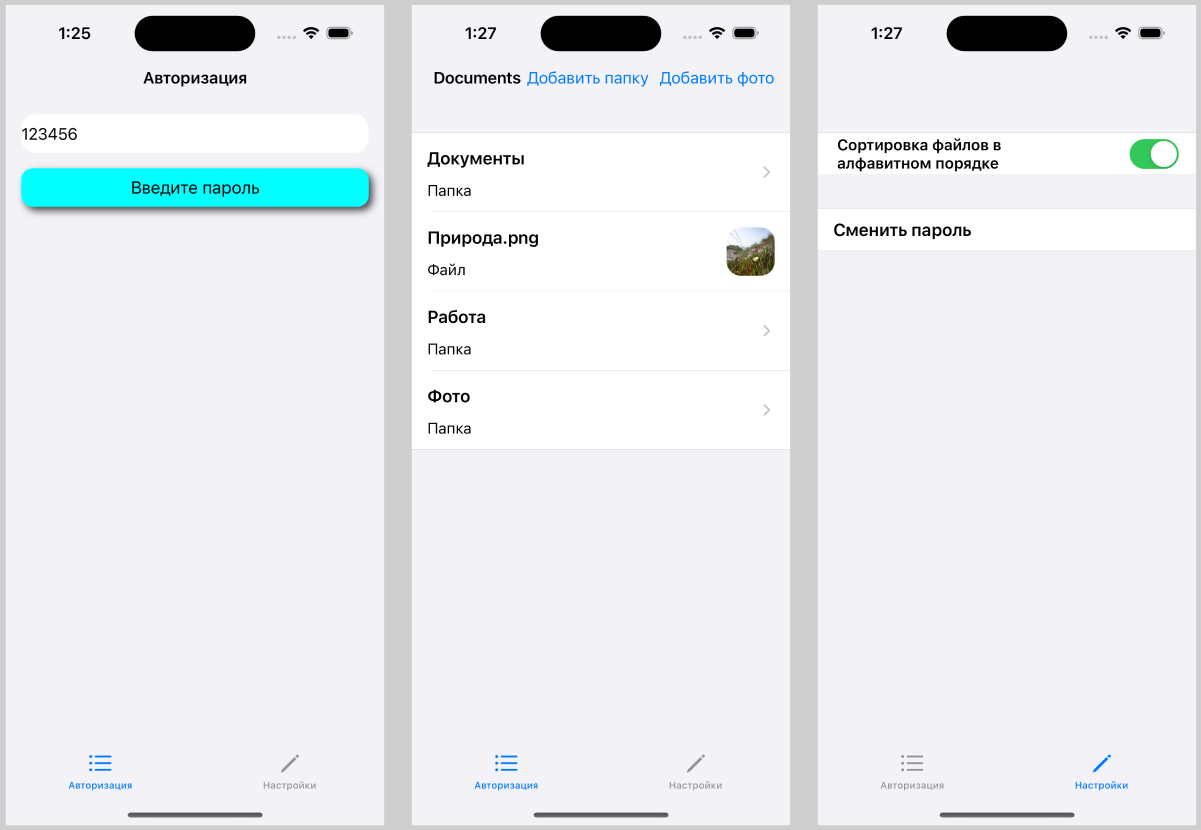
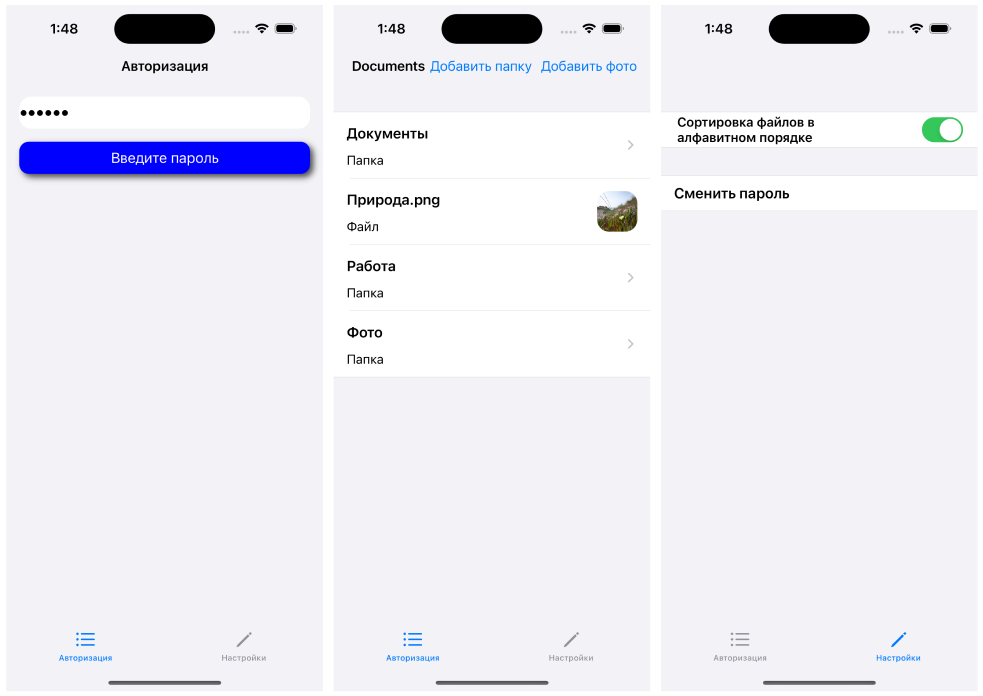
some commit

Changed region(s): [[0.0, 0.0, 1.0, 1.0], [0.3967, 0.9052, 0.4578, 0.9655], [0.5493, 0.9353, 0.6104, 0.9655]]

diff --git a/FileManager/LogInViewController.swift b/FileManager/LogInViewController.swift
@@ -20,19 +20,20 @@ class LogInViewController: UIViewController {
         texField.backgroundColor = .white
         texField.layer.cornerRadius = 15
         texField.text = "123456"
+        texField.isSecureTextEntry = true
         texField.translatesAutoresizingMaskIntoConstraints = false
         return texField
     }()
     
-    private lazy var createPasswordButton = CustomButton(title: "Создать пароль", bgColor: .cyan) {
+    private lazy var createPasswordButton = CustomButton(title: "Создать пароль", bgColor: .blue) {
         self.createPasswordButtonPressed()
     }
     
-    private lazy var enterPasswordButton = CustomButton(title: "Введите пароль", bgColor: .cyan) {
+    private lazy var enterPasswordButton = CustomButton(title: "Введите пароль", bgColor: .blue) {
         self.enterPasswordButtonPressed()
     }
     
-    private lazy var repeatPasswordButton = CustomButton(title: "Повторите пароль", bgColor: .cyan) {
+    private lazy var repeatPasswordButton = CustomButton(title: "Повторите пароль", bgColor: .blue) {
         self.repeatPasswordButtonPressed()
     }
     

diff --git a/FileManager/Custom.swift b/FileManager/Custom.swift
@@ -31,7 +31,7 @@ final class CustomButton: UIButton {
         }
     }
     
-    init(title: String, titleColor: UIColor = .black, bgColor: UIColor, hidden: Bool = false, action: @escaping Action) {
+    init(title: String, titleColor: UIColor = .white, bgColor: UIColor, hidden: Bool = false, action: @escaping Action) {
         buttonAction = action
         super.init(frame: .zero)
         setTitle(title, for: .normal)
